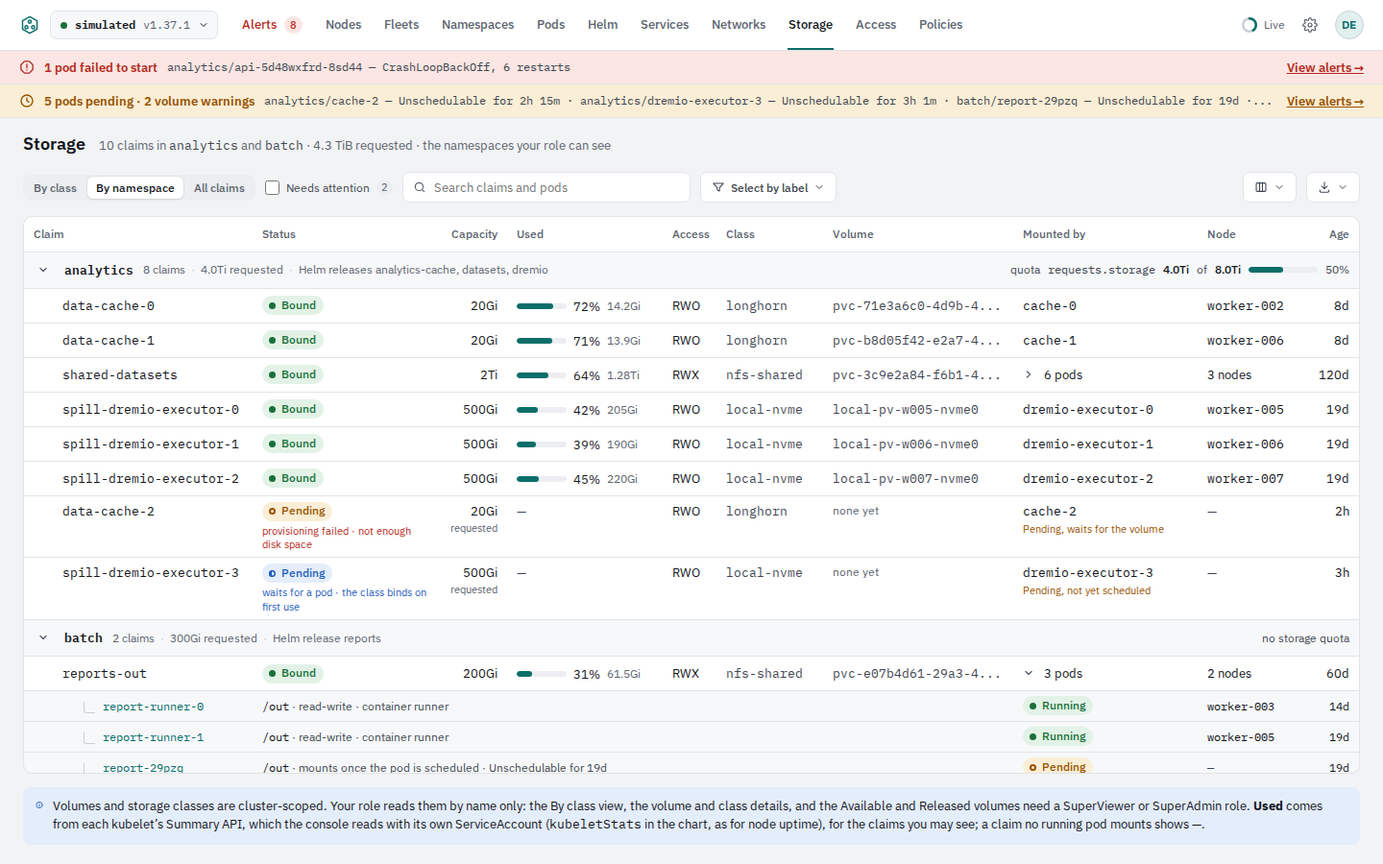
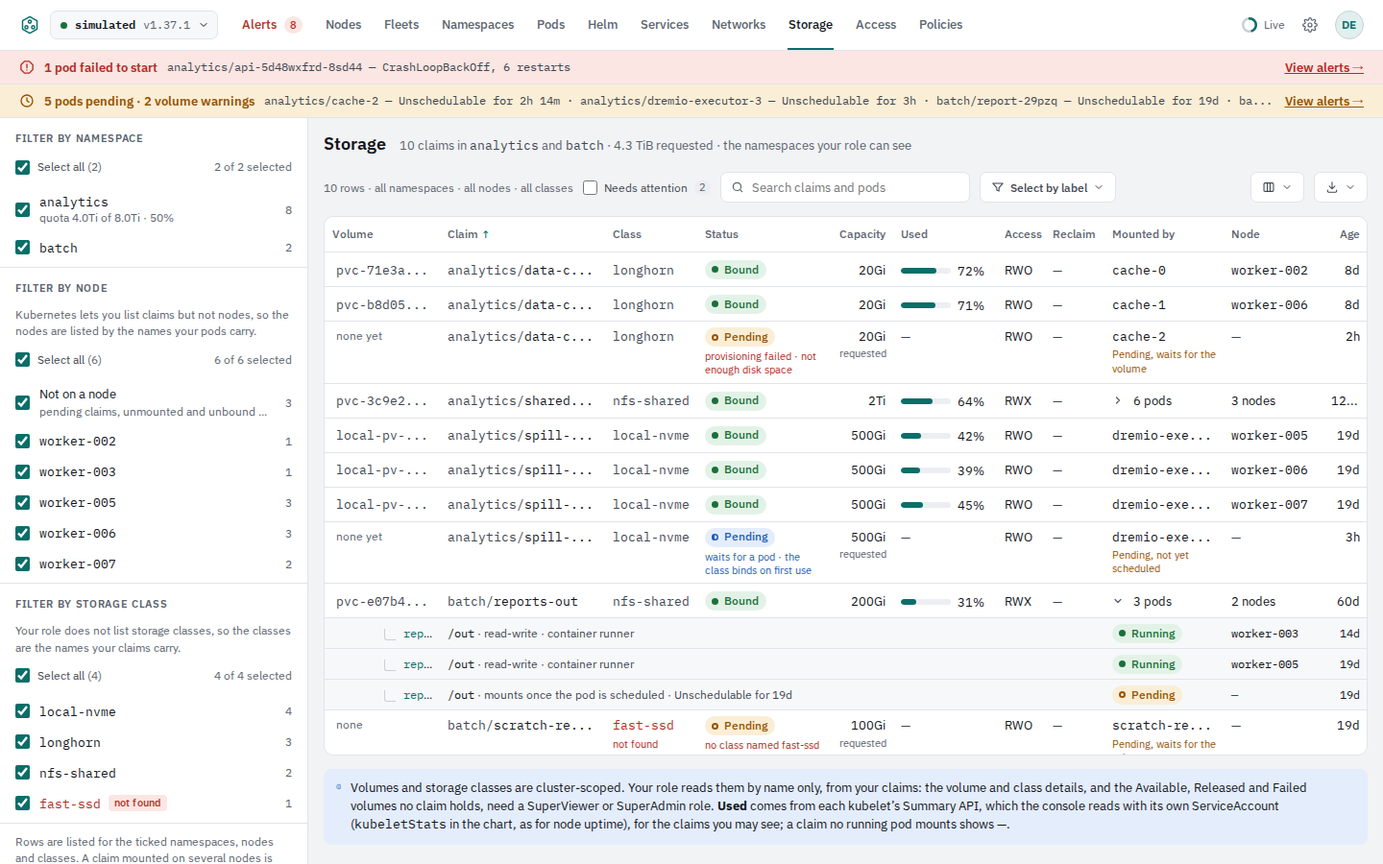
Storage: requirements and screenshots for the filter sidebar
ST-02 rewritten for one flat table beside a filter sidebar by namespace,
node and storage class; ST-03, ST-11 and ST-12 replaced by it at the
October 25, 2026 review, as P3-03 was; ST-04 is the sort by claim, ST-10
leaves namespace, node and class to the sidebar, ST-20 says what the
sidebar names; ST-24 and ST-25 test filtering, not grouping. storage.md
the same, with a row in Your review, its Design section showing the
simulator's pages and keeping docs/design/storage/ as the record of the
first design. The Storage line in CHANGELOG.md and the README caption
follow; the five screenshots are retaken from the simulator at 1440 px
with the dock closed.

diff --git a/docs/requirements.md b/docs/requirements.md
@@ -381,17 +381,17 @@ Phase 8 adds a **Storage** tab: storage classes, persistent volumes, persistent 
 | ID | Requirement | Done when |
 | --- | --- | --- |
 | ST-01 | A **Storage** tab in the bar after Networks, with the route `storage`, rolled into the More menu like any other tab when the window narrows (P2-01). The tab has no count; the heading line reads `N volumes · X provisioned · N classes, default <name> · N claims in N namespaces` for cluster-wide roles and `N claims in <namespaces> · X requested · the namespaces your role can see` for namespace-bound roles. | The tab opens at 1440 px and 390 px wide; the heading matches `kubectl get pv,pvc,sc -A` on the test cluster. |
-| ST-02 | Three views in a segmented control: **By class** (groups: one per class, then volumes with no class, then one per class name that claims use but which does not exist), **By namespace** (groups: one per namespace the person may read), **All volumes** (flat, sortable; **All claims** for namespace-bound roles). By class is disabled, with a tooltip naming the roles that can use it, when the person cannot list storage classes. The chosen view, group collapse state and column choices are kept per cluster in the browser, as the other tabs keep theirs. | Each view shows the same rows; switching keeps the search and the Needs attention filter. |
-| ST-03 | A class group header shows: the class name (a link to its drawer), a `default` tag when the class carries `storageclass.kubernetes.io/is-default-class: "true"` (or the beta annotation), then provisioner, reclaim policy ("Delete on release", "Retain on release"), binding mode ("binds immediately", "binds when a pod is scheduled"), expansion ("expansion allowed", "no expansion"); on the right, volumes, provisioned and used totals with a meter, and counts of claims pending, volumes Available and Released. The "No storage class" group says `volumes made by hand · nothing provisions or deletes these · a claim binds to one by name or by size`. A "class not found" group is named after the missing class with a red `class not found` tag and says `no StorageClass with this name exists · the claim stays Pending; its only sign is a ProvisioningFailed event`. | Every header fact matches `kubectl get sc <name> -o yaml`. |
-| ST-04 | Group order: the default class first, the other classes by name, then No storage class, then the class-not-found groups. Within a group: bound pairs by namespace and claim name, then Pending claims, then volumes with no claim (Released, then Available); a Lost claim or a Failed volume first in its group. | A test over a seeded set of rows yields that order. |
+| ST-02 | One flat table for every role, beside a filter sidebar like the Pods tab's (P2-03), in three sections. **Filter by namespace**: each namespace with a claim the person may see, with its claim count and, when a ResourceQuota sets `requests.storage`, a sub-line `quota 4.0Ti of 8.0Ti · 50%`; first, for cluster-wide roles, **No claim**: the Available, Released and Failed volumes. **Filter by node**: each node a row's pods run on or its volume is attached to, so an RWX claim mounted on several nodes is under each, with the role tag and cordoned flag when the person may list nodes and names only otherwise; first **Not on a node**: pending claims, unmounted and unbound volumes. **Filter by storage class**: each StorageClass with a `default` tag and its provisioner as the sub-line, for roles that may list classes, the names the claims carry otherwise; then **No class** (hand-made volumes, claims with `storageClassName: ""`) and, in red and tagged `not found`, each class name claims use that does not exist. Each section has Select all, an only button and counts that follow the other two sections, the search and Needs attention; the selection is in the URL (`ns`, `node`, `class`; `-` for none; `(no-claim)`, `(no-node)`, `(no-class)` for the special entries), and a scope line in the toolbar says it (`22 rows · all namespaces · all nodes · all classes`). Columns: Volume, Claim, Class, Status, Capacity, Used, Access, Reclaim, Mounted by, Node, Age, the others hidden by default (ST-06); column choices are kept per cluster in the browser. What the former group headers carried lives on: a class's facts in its sidebar entry and its drawer (ST-17), a namespace's quota in its sidebar entry. At 390 px the sidebar stacks above the table. | Filtering by one namespace, one node or one class, and by each of No claim, Not on a node and No class, shows only their rows; opening `#/storage?ns=analytics&node=(no-node)` restores that selection; a Viewer bound to one namespace sees only that namespace, its pods' nodes and its claims' class names in the sidebar. |
+| ST-03 | Replaced by ST-02 at the October 25, 2026 review: the class group header gave way to the sidebar's class entry (name, `default` tag, provisioner) and the class drawer (ST-17), which has the reclaim policy, binding mode, expansion and totals. | See ST-02. |
+| ST-04 | Default sort: Claim ascending, by namespace and then name, so a namespace's claims sit together; rows with no claim (Released, Available and Failed volumes) after them. Every column sorts, with the Status sort putting rows that need attention first. | A test over a seeded set of rows yields that order. |
 | ST-05 | A row is a volume ⇄ claim pair. Kinds of row: **bound** (volume and claim), **pending claim** (claim, `none yet` in the Volume column), **released volume** (volume, `was <namespace>/<claim>` in the Claim column, from `spec.claimRef`), **available volume** (volume, `—`), **lost claim** (claim whose volume is gone). The Status cell shows the phase as a pill and, when the row is not healthy, one short reason line under it (ST-14). | Each kind renders from the seeded rows as in the mockup. |
 | ST-06 | Columns, in order: Volume (the PV name, ellipsized, full name on hover; a hand-made volume also shows its source, such as `nfs 10.0.3.5:/hdfs`), Claim (`namespace/` dimmed, then the name), Status, Capacity (the volume's `spec.capacity.storage`, or the claim's request with a `requested` note while unbound), Used (ST-08), Access (`RWO`, `ROX`, `RWX`, `RWOP`, full mode on hover), Reclaim, Mounted by, Node, Age. Hidden by default: Mode (Filesystem or Block), Source (CSI driver and handle, NFS server and path, local path), Labels, Release (the Helm release of the claim), Binding mode. Column picker and Export (Excel, JSON) as on the other tabs. | The export has the same rows, columns and order as the screen. |
 | ST-07 | **Mounted by** shows the pod's name when one pod mounts the claim and `N pods` with a chevron otherwise; the chevron expands pod sub-rows: pod name, mount path, `read-write` or `read-only`, `subPath` when set, the container, the pod's status pill and node. A pod that is not Running shows its state and age under its name (`Pending, waits for the volume`; `Unschedulable for 19d`). Pod sub-rows are collapsed by default and expanded when any of the pods is not Running. | Clicking the pod name opens the pod drawer (P2-04). |
 | ST-08 | **Used** is `usedBytes` of `capacityBytes` from the kubelet Summary API (`/api/v1/nodes/<node>/proxy/stats/summary`, `pods[].volume[]` matched by `pvcRef`), read by the server with its own ServiceAccount under `kubeletStats`, cached per node and refreshed with the node metrics. Shown as a bar, a percentage and the amount; `—` for a claim no running pod mounts, for Block-mode volumes and when `kubeletStats` is off. 85% and over is amber and counts as Needs attention; 95% and over is red. A person sees usage for every claim they may read; a namespace-bound role sees no more than that. | Usage within 2% of `df` inside the pod; `--set kubeletStats=false` shows `—` everywhere and the heading says why. |
 | ST-09 | A **Needs attention** checkbox with a count filters to rows that are: a claim Pending with a Warning event, a claim naming a class that does not exist, a claim Lost, a volume Released or Failed, or usage at 85% or more. The first three are what the Alerts tab shows as volume alerts today; Released and usage are 221B checks, shown here and not on the Alerts tab. | The count equals the number of rows the filter leaves. |
-| ST-10 | Search matches volume name, claim name, namespace, pod name, class and node. **Select by label** filters by volume or claim labels, as the Nodes tab does for nodes (P2-09). | Searching `kafka` leaves the three Kafka rows. |
-| ST-11 | **By namespace** group header: namespace (a link), claims, requested total, the Helm releases that own claims there; on the right, the namespace's ResourceQuota for `requests.storage` as `used of hard` with a meter and percentage (and, when a quota sets `<class>.storageclass.storage.k8s.io/requests.storage`, that limit on the matching rows' class), or `no storage quota`. Columns in this view: Claim, Status, Capacity, Used, Access, Class, Volume, Mounted by, Node, Age; for a namespace-bound role, Class and Volume are plain names from the claim (`spec.storageClassName`, `spec.volumeName`) and open nothing; a class name that no class matches is red with `not found` under it. | A Viewer bound to `analytics` and `batch` sees exactly their claims, as in the mockup; a namespace with a quota shows the same numbers as `kubectl describe quota`. |
-| ST-12 | **All volumes** is the flat table with a Class column, sortable by any column, for large clusters; it keeps the search and filter. | 2,000 claims sort within 200 ms. |
+| ST-10 | The sidebar does the filtering by namespace, node and class (ST-02). Search matches volume name, claim name, namespace, pod name, class and node; **Select by label** filters by volume or claim labels, as the Nodes tab does for nodes (P2-09). | Searching `kafka` leaves the three Kafka rows. |
+| ST-11 | Replaced by ST-02 at the October 25, 2026 review: there is no By namespace view; a namespace's storage quota is its sidebar entry's sub-line, and for a namespace-bound role Class and Volume stay plain names from the claim (`spec.storageClassName`, `spec.volumeName`) that open nothing, a class name no class matches red with `not found`. | See ST-02. |
+| ST-12 | Replaced by ST-02 at the October 25, 2026 review: the flat, sortable table of All volumes is now the table for every role, with the Class column after Claim; 2,000 claims still filter and sort within 200 ms (ST-25). | See ST-02. |
 | ST-13 | Clicking a volume or claim name opens one drawer for the pair (1000 px wide like the pod drawer): kicker `Volume claim in <namespace> · bound to <volume>` (or `· no volume yet`, or `Volume <name> · released from <namespace>/<claim>`), the claim name with Copy, facts (phase pill with the time in that phase when not Bound, capacity or request, access mode, volume mode and filesystem, class, the StatefulSet or other owner, the Helm release, age), and tabs Overview, Pods, Events, Claim YAML, Volume YAML (the last only when a volume exists; Volume YAML only for roles that may read volumes). | Opens with Enter, closes with Escape, returns focus to the row (P1-17). |
 | ST-14 | Overview shows **the chain**, one hop per row: 1 Storage class, 2 Volume, 3 Claim, 4 Mounted by, 5 Attached to (the node, from the VolumeAttachment for CSI volumes, from `nodeAffinity` for local volumes, `N nodes` for RWX), 6 Usage. Each hop has a value, a one-line description and a state (`in place`, `Bound`, `Running`, `attached`, `room to grow`, `Pending`, `failed`, `—`). The first hop that does not hold is red with the cause in bold; the hops that wait on it are amber; hops that cannot be reached yet are grey. The intro line above the chain names the broken hop in one sentence (`The chain breaks at the volume: longhorn has tried 14 times to create one and keeps retrying.`). The diagnosis rules, also used for the Status reason line in the table: a class the claim names does not exist → `no class named <x> · nothing will provision it` (red); a `ProvisioningFailed` Warning event → `provisioning failed · <short message>` (red); the class binds on first use and no pod is scheduled → `waits for a pod · the class binds on first use` (blue, not Needs attention); the claim has no class (`""`) and no volume matches → `no volume matches (size, access mode or selector)` (amber); otherwise Pending → `waiting for the provisioner` (amber); Lost → red; volume Released → `claim deleted <age> ago · data kept (Retain)` or `· being deleted` (amber); volume Failed → red with the message; Resizing → amber. | Each rule has a unit test with a seeded claim; breaking each hop on the test cluster turns that hop red and names the cause (as P4-02 does for Networks). |
 | ST-15 | Events: the claim's own events, the attach and mount events of the pods that use it (`attachMount` in alerts.go, matched by volume or claim name), and the `FailedScheduling` events of pods waiting on the claim, in one table (Reason, Message, Count, First seen, Last seen, Reported by), Warnings first; the Overview shows the last two as a short list with a `No warnings in the last N days` line. | The table matches `kubectl get events --field-selector involvedObject.name=<claim>` plus the pods' events. |
@@ -399,25 +399,26 @@ Phase 8 adds a **Storage** tab: storage classes, persistent volumes, persistent 
 | ST-17 | Clicking a class name opens the **class drawer** (640 px): kicker `StorageClass · cluster-scoped · provisioner <name>`, name with the `default` tag and Copy, facts (volumes, provisioned, used, claims and how many pending, age), tabs Overview, Volumes, Parameters, YAML. Overview: **How it provisions** (provisioner with a plain-language note for known ones, reclaim policy, binding mode, expansion, mount options, allowed topologies, whether default and what that means), **Parameters** (as given), **Capacity** (used of provisioned with a meter; for a replicated provisioner the on-disk multiple when the parameters say it; claims by namespace), and a warning callout when any claim in the class is failing to provision. | Every fact matches the class YAML; the Volumes tab lists the same rows as the class's group on the tab. |
 | ST-18 | Actions, in the drawer footer, each a Watson change with a server dry run and approval, the production rule included: **Expand** a claim to a larger size (patch `spec.resources.requests.storage`; offered only when the class allows expansion; the dry run and a note say whether the filesystem grows online or needs a pod restart); **Delete claim** (the confirmation names the reclaim policy and its consequence; for a claim from a StatefulSet volumeClaimTemplate it says the set recreates the claim); **Remove default** / **Set as default** on a class (patch the annotation; the footer says the default is changed in two steps and that bound claims keep their class). **Snapshot** is shown disabled with `No VolumeSnapshotClass on this cluster` until snapshots are in scope. No action deletes a volume or a class, and nothing is offered to a read-only role or a read-only deployment (RB-03, RB-32). | Each action produces one audit record; on a production cluster it waits for a second admin (P6-07). |
 | ST-19 | Reads: `volumeattachments` (storage.k8s.io, cluster-scoped) joins `Watched` and the chart's ClusterRole and the Super role templates; `persistentvolumes` and `storageclasses` are already there (RB-11). Namespace-bound roles need nothing new: claims, quotas, events and pods in their namespaces. `nodes/proxy` stays out of every role template (roles.go, `superGetCore`); usage comes only from the server's own read under `kubeletStats` (ST-08). Writes for ST-18 are already in the Admin templates (`patch` and `delete` on `persistentvolumeclaims`); `patch` on `storageclasses` is added to the Super Admin full template. | `hack/check-rbac.sh` passes with the new rules; a Viewer's `kubectl auth can-i --list` shows no volume, class or attachment reads. |
-| ST-20 | Everything a namespace-bound person sees comes through impersonation (P3-02): no claim of another namespace in any view, search, export, drawer, Sherlock answer or usage figure; volumes without a claim, the class drawer and the By class view are not offered to them. | An e2e test as a Viewer bound to one namespace finds no name from another namespace in any response. |
+| ST-20 | Everything a namespace-bound person sees comes through impersonation (P3-02): no claim of another namespace in any view, search, export, drawer, Sherlock answer or usage figure; volumes without a claim and the volume and class drawers are not offered to them, and the sidebar names only their namespaces, their pods' nodes and their claims' classes. | An e2e test as a Viewer bound to one namespace finds no name from another namespace in any response. |
 | ST-21 | The Alerts tab keeps its event-driven volume alerts; its volume cards gain an **Open volume** action that opens the Storage drawer. The pod drawer's Volumes tab links a claim's pill to the Storage drawer. The Namespaces list footer names the Storage tab. The alert banner's volume items open the Storage drawer. | Each link opens the right drawer with the right row selected. |
 | ST-22 | Sherlock answers storage questions through two new read tools (list classes with totals; list volumes and claims with status, usage, pods and the diagnosis of ST-14), under the same impersonation and the same limits as the other tools; `get_object` already handles a claim. Watson's three storage actions run through the existing approval flow, nothing more than the chart allows (RB-03, RB-32). | `Which claims are pending and why?` answers with the ST-14 reasons; a Watson expand on a read-only deployment is refused before the dry run. |
 | ST-23 | The simulated cluster (`server/internal/sim`) gains classes, volumes, claims, attachments and usage that reproduce the mockup scenario: a default replicated class, a local class that binds on first use, an NFS class, hand-made volumes, a claim failing to provision, a claim naming a missing class, a Released volume, an Available volume, a claim waiting for a pod, and one volume at 86%. | The simulated Storage tab matches the mockups row for row. |
-| ST-24 | Unit tests for grouping, ordering and every ST-14 rule; an e2e test on the kind cluster with its local-path provisioner covering a bound claim, a claim naming a missing class and a Released volume; the role tests of RB-56 extended with the new kinds. | CI passes; the Storage screenshots are added to `docs/screenshots/`. |
-| ST-25 | 2,000 claims and 50 classes: first screen within 2 seconds, grouping and sorting within 200 ms, usage refresh adds no request per claim (one Summary read per node per refresh). | Measured with kwok as for P1-18. |
+| ST-24 | Unit tests for the sidebar's filtering, ordering and every ST-14 rule; an e2e test on the kind cluster with its local-path provisioner covering a bound claim, a claim naming a missing class and a Released volume; the role tests of RB-56 extended with the new kinds. | CI passes; the Storage screenshots are added to `docs/screenshots/`. |
+| ST-25 | 2,000 claims and 50 classes: first screen within 2 seconds, filtering and sorting within 200 ms, usage refresh adds no request per claim (one Summary read per node per refresh). | Measured with kwok as for P1-18. |
 
 **Built in Phase 8:**
 
-- **ST-01 to ST-12:** the tab after Networks, with By class, By namespace and All volumes, the Needs attention filter, search and Select by label, Columns and Export (Excel, CSV, JSON). The server builds the rows from its caches (`server/internal/views/storage.go`) and filters them per person like every other view; the browser groups and sorts them (`web/src/lib/volumes.ts`).
+- **ST-01 to ST-12:** the tab after Networks: one table, sorted by claim, beside a filter sidebar by namespace, node and storage class as on the Pods tab (revised at the October 25, 2026 review, which replaced the views by class and by namespace), the Needs attention filter, search and Select by label, Columns and Export (Excel, CSV, JSON). The server builds the rows from its caches (`server/internal/views/storage.go`) and filters them per person like every other view; the browser groups and sorts them (`web/src/lib/volumes.ts`).
 - **ST-08:** used bytes come from each kubelet's Summary API, read by the console's ServiceAccount at most every 30 seconds, one request per node that runs a pod with a claim (ADR-63).
 - **ST-13 to ST-18:** the claim drawer with the chain and its diagnosis, the class drawer, and Expand, Delete claim and Set or Remove default as Watson changes, each waiting on an approval card.
 - **ST-19, ST-20:** VolumeAttachments are watched and read by the chart's ClusterRole and the Super roles; full Admin gains `delete` on claims. A person bound to namespaces gets claims only, through the same access reviews and impersonation as the other tabs.
 - **ST-21, ST-22:** Open volume on the Alerts tab's volume cards, the claim pill on the pod drawer, the Namespaces footer and the banner's volume items open the drawer; Sherlock has `list_storage_classes` and `list_volumes`. The Needs attention filter is a superset of the Alerts tab's volume alerts (ADR-64).
-- **ST-23 to ST-25:** the simulator serves the mockups' scenario; unit tests cover grouping, ordering and every diagnosis rule; browser tests cover the views, the drawers and the filter against the simulator, and a bound claim, a claim naming a missing class, a Released volume and a namespace-bound person on kind; 2,000 claims in 50 classes build in milliseconds and sort within 200 ms.
+- **ST-23 to ST-25:** the simulator serves the mockups' scenario; unit tests cover the sidebar's entries and filtering, ordering and every diagnosis rule; browser tests cover the table, the sidebar, the drawers and Needs attention against the simulator, and a bound claim, a claim naming a missing class, a Released volume and a namespace-bound person on kind; 2,000 claims in 50 classes build in milliseconds and sort within 200 ms.
 
 ### Your review
 
-- [ ] The tab checked against the mockups and `kubectl get pv,pvc,sc -A` on the test cluster, at 1440 px and 390 px, in both themes (ST-01 to ST-12)
+- [ ] The tab checked against `kubectl get pv,pvc,sc -A` on the test cluster, at 1440 px and 390 px, in both themes (ST-01 to ST-12)
+- [ ] The filter sidebar: one namespace, one node, one class, No claim, Not on a node and No class each show only their rows, and a link with `ns`, `node` or `class` opens the same selection (ST-02)
 - [ ] A claim's drawer checked for a bound claim, a claim failing to provision, a claim naming a missing class and a Released volume (ST-13 to ST-16)
 - [ ] The class drawer and the three Watson changes approved and run on the test cluster, each with its audit record (ST-17, ST-18)
 - [ ] A Viewer bound to one namespace sees nothing of another, and no volume, class or attachment (ST-19, ST-20)

diff --git a/docs/storage.md b/docs/storage.md
@@ -8,7 +8,7 @@ In:
 
 - A top-level **Storage** tab, after Networks.
 - StorageClasses, PersistentVolumes, PersistentVolumeClaims, VolumeAttachments, the pods that mount each claim, ResourceQuota storage limits, and used bytes from each kubelet's Summary API.
-- Three views of the same data (by class, by namespace, flat), a details drawer for a claim or volume, a details drawer for a class, and three changes through Watson: expand a claim, delete a claim, change the default class.
+- One table of the same rows for every role, filtered by namespace, node and storage class in a sidebar as on the Pods tab (three grouped views until the October 25, 2026 review), a details drawer for a claim or volume, a details drawer for a class, and three changes through Watson: expand a claim, delete a claim, change the default class.
 
 Out, for now:
 
@@ -17,6 +17,8 @@ Out, for now:
 - Creating classes or volumes, and deleting volumes or classes from the console.
 
 ## Approach
+
+Revised at the October 25, 2026 review: grouping by class and by namespace gave way to one flat table beside a filter sidebar by namespace, node and storage class, as on the Pods tab (ST-02). The paragraphs below are the first design's reasoning; what they say of the class and the hand-made and missing classes now lives in the sidebar's class section and the class drawer.
 
 **One tree.** A volume and its claim are a pair, so they share one row; rows are grouped under their storage class; a row expands to the pods that mount it. The group header carries what an operator reads off a class before anything else: provisioner, reclaim policy, binding mode, expansion, whether it is the default, and totals (volumes, provisioned, used, claims in trouble).
 
@@ -44,17 +46,17 @@ Out, for now:
 | ID | Requirement | Acceptance |
 |---|---|---|
 | ST-01 | A **Storage** tab in the bar after Networks, with the route `storage`, rolled into the More menu like any other tab when the window narrows (P2-01). The tab has no count; the heading line reads `N volumes · X provisioned · N classes, default <name> · N claims in N namespaces` for cluster-wide roles and `N claims in <namespaces> · X requested · the namespaces your role can see` for namespace-bound roles. | The tab opens at 1440 px and 390 px wide; the heading matches `kubectl get pv,pvc,sc -A` on the test cluster. |
-| ST-02 | Three views in a segmented control: **By class** (groups: one per class, then volumes with no class, then one per class name that claims use but which does not exist), **By namespace** (groups: one per namespace the person may read), **All volumes** (flat, sortable; **All claims** for namespace-bound roles). By class is disabled, with a tooltip naming the roles that can use it, when the person cannot list storage classes. The chosen view, group collapse state and column choices are kept per cluster in the browser, as the other tabs keep theirs. | Each view shows the same rows; switching keeps the search and the Needs attention filter. |
-| ST-03 | A class group header shows: the class name (a link to its drawer), a `default` tag when the class carries `storageclass.kubernetes.io/is-default-class: "true"` (or the beta annotation), then provisioner, reclaim policy ("Delete on release", "Retain on release"), binding mode ("binds immediately", "binds when a pod is scheduled"), expansion ("expansion allowed", "no expansion"); on the right, volumes, provisioned and used totals with a meter, and counts of claims pending, volumes Available and Released. The "No storage class" group says `volumes made by hand · nothing provisions or deletes these · a claim binds to one by name or by size`. A "class not found" group is named after the missing class with a red `class not found` tag and says `no StorageClass with this name exists · the claim stays Pending; its only sign is a ProvisioningFailed event`. | Every header fact matches `kubectl get sc <name> -o yaml`. |
-| ST-04 | Group order: the default class first, the other classes by name, then No storage class, then the class-not-found groups. Within a group: bound pairs by namespace and claim name, then Pending claims, then volumes with no claim (Released, then Available); a Lost claim or a Failed volume first in its group. | A test over a seeded set of rows yields that order. |
+| ST-02 | One flat table for every role, beside a filter sidebar like the Pods tab's (P2-03), in three sections. **Filter by namespace**: each namespace with a claim the person may see, with its claim count and, when a ResourceQuota sets `requests.storage`, a sub-line `quota 4.0Ti of 8.0Ti · 50%`; first, for cluster-wide roles, **No claim**: the Available, Released and Failed volumes. **Filter by node**: each node a row's pods run on or its volume is attached to, so an RWX claim mounted on several nodes is under each, with the role tag and cordoned flag when the person may list nodes and names only otherwise; first **Not on a node**: pending claims, unmounted and unbound volumes. **Filter by storage class**: each StorageClass with a `default` tag and its provisioner as the sub-line, for roles that may list classes, the names the claims carry otherwise; then **No class** (hand-made volumes, claims with `storageClassName: ""`) and, in red and tagged `not found`, each class name claims use that does not exist. Each section has Select all, an only button and counts that follow the other two sections, the search and Needs attention; the selection is in the URL (`ns`, `node`, `class`; `-` for none; `(no-claim)`, `(no-node)`, `(no-class)` for the special entries), and a scope line in the toolbar says it (`22 rows · all namespaces · all nodes · all classes`). Columns: Volume, Claim, Class, Status, Capacity, Used, Access, Reclaim, Mounted by, Node, Age, the others hidden by default (ST-06); column choices are kept per cluster in the browser. What the former group headers carried lives on: a class's facts in its sidebar entry and its drawer (ST-17), a namespace's quota in its sidebar entry. At 390 px the sidebar stacks above the table. | Filtering by one namespace, one node or one class, and by each of No claim, Not on a node and No class, shows only their rows; opening `#/storage?ns=analytics&node=(no-node)` restores that selection; a Viewer bound to one namespace sees only that namespace, its pods' nodes and its claims' class names in the sidebar. |
+| ST-03 | Replaced by ST-02 at the October 25, 2026 review: the class group header gave way to the sidebar's class entry (name, `default` tag, provisioner) and the class drawer (ST-17), which has the reclaim policy, binding mode, expansion and totals. | See ST-02. |
+| ST-04 | Default sort: Claim ascending, by namespace and then name, so a namespace's claims sit together; rows with no claim (Released, Available and Failed volumes) after them. Every column sorts, with the Status sort putting rows that need attention first. | A test over a seeded set of rows yields that order. |
 | ST-05 | A row is a volume ⇄ claim pair. Kinds of row: **bound** (volume and claim), **pending claim** (claim, `none yet` in the Volume column), **released volume** (volume, `was <namespace>/<claim>` in the Claim column, from `spec.claimRef`), **available volume** (volume, `—`), **lost claim** (claim whose volume is gone). The Status cell shows the phase as a pill and, when the row is not healthy, one short reason line under it (ST-14). | Each kind renders from the seeded rows as in the mockup. |
 | ST-06 | Columns, in order: Volume (the PV name, ellipsized, full name on hover; a hand-made volume also shows its source, such as `nfs 10.0.3.5:/hdfs`), Claim (`namespace/` dimmed, then the name), Status, Capacity (the volume's `spec.capacity.storage`, or the claim's request with a `requested` note while unbound), Used (ST-08), Access (`RWO`, `ROX`, `RWX`, `RWOP`, full mode on hover), Reclaim, Mounted by, Node, Age. Hidden by default: Mode (Filesystem or Block), Source (CSI driver and handle, NFS server and path, local path), Labels, Release (the Helm release of the claim), Binding mode. Column picker and Export (Excel, JSON) as on the other tabs. | The export has the same rows, columns and order as the screen. |
 | ST-07 | **Mounted by** shows the pod's name when one pod mounts the claim and `N pods` with a chevron otherwise; the chevron expands pod sub-rows: pod name, mount path, `read-write` or `read-only`, `subPath` when set, the container, the pod's status pill and node. A pod that is not Running shows its state and age under its name (`Pending, waits for the volume`; `Unschedulable for 19d`). Pod sub-rows are collapsed by default and expanded when any of the pods is not Running. | Clicking the pod name opens the pod drawer (P2-04). |
 | ST-08 | **Used** is `usedBytes` of `capacityBytes` from the kubelet Summary API (`/api/v1/nodes/<node>/proxy/stats/summary`, `pods[].volume[]` matched by `pvcRef`), read by the server with its own ServiceAccount under `kubeletStats`, cached per node and refreshed with the node metrics. Shown as a bar, a percentage and the amount; `—` for a claim no running pod mounts, for Block-mode volumes and when `kubeletStats` is off. 85% and over is amber and counts as Needs attention; 95% and over is red. A person sees usage for every claim they may read; a namespace-bound role sees no more than that. | Usage within 2% of `df` inside the pod; `--set kubeletStats=false` shows `—` everywhere and the heading says why. |
 | ST-09 | A **Needs attention** checkbox with a count filters to rows that are: a claim Pending with a Warning event, a claim naming a class that does not exist, a claim Lost, a volume Released or Failed, or usage at 85% or more. The first three are what the Alerts tab shows as volume alerts today; Released and usage are 221B checks, shown here and not on the Alerts tab. | The count equals the number of rows the filter leaves. |
-| ST-10 | Search matches volume name, claim name, namespace, pod name, class and node. **Select by label** filters by volume or claim labels, as the Nodes tab does for nodes (P2-09). | Searching `kafka` leaves the three Kafka rows. |
-| ST-11 | **By namespace** group header: namespace (a link), claims, requested total, the Helm releases that own claims there; on the right, the namespace's ResourceQuota for `requests.storage` as `used of hard` with a meter and percentage (and, when a quota sets `<class>.storageclass.storage.k8s.io/requests.storage`, that limit on the matching rows' class), or `no storage quota`. Columns in this view: Claim, Status, Capacity, Used, Access, Class, Volume, Mounted by, Node, Age; for a namespace-bound role, Class and Volume are plain names from the claim (`spec.storageClassName`, `spec.volumeName`) and open nothing; a class name that no class matches is red with `not found` under it. | A Viewer bound to `analytics` and `batch` sees exactly their claims, as in the mockup; a namespace with a quota shows the same numbers as `kubectl describe quota`. |
-| ST-12 | **All volumes** is the flat table with a Class column, sortable by any column, for large clusters; it keeps the search and filter. | 2,000 claims sort within 200 ms. |
+| ST-10 | The sidebar does the filtering by namespace, node and class (ST-02). Search matches volume name, claim name, namespace, pod name, class and node; **Select by label** filters by volume or claim labels, as the Nodes tab does for nodes (P2-09). | Searching `kafka` leaves the three Kafka rows. |
+| ST-11 | Replaced by ST-02 at the October 25, 2026 review: there is no By namespace view; a namespace's storage quota is its sidebar entry's sub-line, and for a namespace-bound role Class and Volume stay plain names from the claim (`spec.storageClassName`, `spec.volumeName`) that open nothing, a class name no class matches red with `not found`. | See ST-02. |
+| ST-12 | Replaced by ST-02 at the October 25, 2026 review: the flat, sortable table of All volumes is now the table for every role, with the Class column after Claim; 2,000 claims still filter and sort within 200 ms (ST-25). | See ST-02. |
 
 ### The details drawers
 
@@ -72,7 +74,7 @@ Out, for now:
 | ID | Requirement | Acceptance |
 |---|---|---|
 | ST-19 | Reads: `volumeattachments` (storage.k8s.io, cluster-scoped) joins `Watched` and the chart's ClusterRole and the Super role templates; `persistentvolumes` and `storageclasses` are already there (RB-11). Namespace-bound roles need nothing new: claims, quotas, events and pods in their namespaces. `nodes/proxy` stays out of every role template (roles.go, `superGetCore`); usage comes only from the server's own read under `kubeletStats` (ST-08). Writes for ST-18 are already in the Admin templates (`patch` and `delete` on `persistentvolumeclaims`); `patch` on `storageclasses` is added to the Super Admin full template. | `hack/check-rbac.sh` passes with the new rules; a Viewer's `kubectl auth can-i --list` shows no volume, class or attachment reads. |
-| ST-20 | Everything a namespace-bound person sees comes through impersonation (P3-02): no claim of another namespace in any view, search, export, drawer, Sherlock answer or usage figure; volumes without a claim, the class drawer and the By class view are not offered to them. | An e2e test as a Viewer bound to one namespace finds no name from another namespace in any response. |
+| ST-20 | Everything a namespace-bound person sees comes through impersonation (P3-02): no claim of another namespace in any view, search, export, drawer, Sherlock answer or usage figure; volumes without a claim and the volume and class drawers are not offered to them, and the sidebar names only their namespaces, their pods' nodes and their claims' classes. | An e2e test as a Viewer bound to one namespace finds no name from another namespace in any response. |
 
 ### Alerts, links, Sherlock
 
@@ -86,8 +88,8 @@ Out, for now:
 | ID | Requirement | Acceptance |
 |---|---|---|
 | ST-23 | The simulated cluster (`server/internal/sim`) gains classes, volumes, claims, attachments and usage that reproduce the mockup scenario: a default replicated class, a local class that binds on first use, an NFS class, hand-made volumes, a claim failing to provision, a claim naming a missing class, a Released volume, an Available volume, a claim waiting for a pod, and one volume at 86%. | The simulated Storage tab matches the mockups row for row. |
-| ST-24 | Unit tests for grouping, ordering and every ST-14 rule; an e2e test on the kind cluster with its local-path provisioner covering a bound claim, a claim naming a missing class and a Released volume; the role tests of RB-56 extended with the new kinds. | CI passes; the Storage screenshots are added to `docs/screenshots/`. |
-| ST-25 | 2,000 claims and 50 classes: first screen within 2 seconds, grouping and sorting within 200 ms, usage refresh adds no request per claim (one Summary read per node per refresh). | Measured with kwok as for P1-18. |
+| ST-24 | Unit tests for the sidebar's filtering, ordering and every ST-14 rule; an e2e test on the kind cluster with its local-path provisioner covering a bound claim, a claim naming a missing class and a Released volume; the role tests of RB-56 extended with the new kinds. | CI passes; the Storage screenshots are added to `docs/screenshots/`. |
+| ST-25 | 2,000 claims and 50 classes: first screen within 2 seconds, filtering and sorting within 200 ms, usage refresh adds no request per claim (one Summary read per node per refresh). | Measured with kwok as for P1-18. |
 
 ## Where the work lands
 
@@ -107,24 +109,25 @@ Out, for now:
 | Are the 85% and 95% thresholds chart values or constants? | Constants in the first version. | Open |
 | Should class-not-found, Released and nearly-full rows also appear on the Alerts tab? | No: the Alerts tab stays event-driven; the Storage tab's Needs attention is the superset. | Open |
 | Which tab does Storage displace into the More menu at narrow widths? | The bar order is Alerts, Nodes, Fleets, Namespaces, Pods, Helm, Services, Networks, Storage, Access, Policies; More takes from the right as before. | Open |
-| Expanded by default, or collapsed, for a cluster with 50 classes? | Expanded, up to 12 groups; collapsed beyond that, the groups with Needs attention rows open. | Open |
+| Expanded by default, or collapsed, for a cluster with 50 classes? | Expanded, up to 12 groups; collapsed beyond that, the groups with Needs attention rows open. | Moot since the October 25, 2026 review: there are no groups (ST-02). |
 | Does the pod drawer's Volumes tab stay as it is, or gain the chain? | It stays; its claim pill links to the Storage drawer. | Open |
 
 ## Design
 
-The pages at 1440 px in the light theme. The HTML of each page is in `docs/design/storage/` and opens in a browser as it is; `storage.css` is `web/src/styles/design.css` plus the mockup frame and the `st-*` classes of this page. The dark theme is `data-theme="dark"` on the root element.
+The pages at 1440 px in the light theme, from the simulator (`make screenshots`). The first design, with groups by class and by namespace, is kept as the record of what was reviewed: its HTML in `docs/design/storage/` and its renders in `docs/images/storage/`.
 
 | | |
 |---|---|
-| ![By class](images/storage/by-class-light-1440.png) | ![By namespace, as a Viewer](images/storage/by-namespace-viewer-light-1440.png) |
-| By class, as a SuperAdmin (ST-02 to ST-10): the longhorn group with a claim failing to provision, the nfs-shared group with pod sub-rows and a Released volume, hand-made volumes, and a claim naming a class that does not exist | By namespace, as a Viewer bound to analytics and batch (ST-11, ST-20): claims only, class and volume as names, a quota meter per namespace, By class disabled |
-| ![A bound claim](images/storage/claim-bound-light-1440.png) | ![A claim that cannot bind](images/storage/claim-pending-light-1440.png) |
+| ![The Storage tab](screenshots/storage.png) | ![As a Viewer bound to two namespaces](screenshots/storage-namespace.png) |
+| The table beside the filter sidebar, as a SuperAdmin (ST-02 to ST-10): every namespace with its quota, No claim, the nodes with Not on a node, every class with No class and the missing fast-ssd; the claim failing to provision, pod sub-rows and the claim naming a missing class | As a Viewer bound to analytics and batch (ST-02, ST-20): their claims only, their namespaces, their pods' nodes by name and their claims' classes in the sidebar, class and volume as names |
+| ![A bound claim](screenshots/storage-claim.png) | ![A claim that cannot bind](screenshots/storage-pending.png) |
 | The drawer for a bound claim (ST-13, ST-14, ST-16, ST-18): the six hops all green, Lifecycle and Recent events, Expand and Delete claim through Watson | The drawer for a claim the provisioner cannot satisfy: the volume hop red with the cause, the claim and pod hops waiting, the events, Sherlock's suggestions |
-| ![A storage class](images/storage/storage-class-light-1440.png) | |
-| The class drawer (ST-17, ST-18): how it provisions, parameters, capacity, the warning that provisioning is failing, Remove default through Watson | |
+| ![A storage class](screenshots/storage-class.png) | |
+| The class drawer (ST-17, ST-18): how it provisions, parameters, capacity, the warning that provisioning is failing, Remove default through Watson; its Volumes tab links to the table filtered to the class | |
 
 ## Your review
 
 | Date | Note |
 |---|---|
 | 2026-10-25 | Summary tiles removed from the top of every screen; the heading line stays. |
+| 2026-10-25 | Grouping by class and by namespace replaced by one flat table, sorted by claim, beside a filter sidebar like the Pods tab's: Filter by namespace (with No claim and each namespace's quota), Filter by node (with Not on a node) and Filter by storage class (with No class and the missing classes). ST-02 rewritten; ST-03, ST-11 and ST-12 replaced by it; ST-04 and ST-10 adjusted. The Namespaces tab, the node drawer and the class drawer link to the table filtered. |

diff --git a/README.md b/README.md
@@ -17,7 +17,7 @@ From the simulated cluster (`make screenshots`; the Screenshots workflow retakes
 | [![Alerts](docs/screenshots/alerts.png)](docs/screenshots/alerts.png)<br>**Alerts**: active, acknowledged, resolved | [![Fleets](docs/screenshots/fleets.png)](docs/screenshots/fleets.png)<br>**Fleets** by labels and taints | [![Networks](docs/screenshots/networks.png)](docs/screenshots/networks.png)<br>**Networks**: a route traced to the pod |
 | [![Access](docs/screenshots/access.png)](docs/screenshots/access.png)<br>**Access**: who can do what | [![Policies](docs/screenshots/policies.png)](docs/screenshots/policies.png)<br>**Policies** and drainability | [![Helm](docs/screenshots/helm.png)](docs/screenshots/helm.png)<br>**Helm** releases |
 | [![Sherlock](docs/screenshots/sherlock.png)](docs/screenshots/sherlock.png)<br>**Sherlock** answers from live state | [![Watson](docs/screenshots/watson-approval.png)](docs/screenshots/watson-approval.png)<br>**Watson**: a change waits on its approval card | [![Add a cluster](docs/screenshots/add-cluster.png)](docs/screenshots/add-cluster.png)<br>**Add a cluster**, with the RBAC it needs |
-| [![Roles](docs/screenshots/admin-roles.png)](docs/screenshots/admin-roles.png)<br>**Administration → Roles** | [![Settings](docs/screenshots/admin-settings.png)](docs/screenshots/admin-settings.png)<br>**Administration → Settings**: refresh, Sherlock, Watson | [![Storage](docs/screenshots/storage.png)](docs/screenshots/storage.png)<br>**Storage**: classes, volumes and claims as one tree |
+| [![Roles](docs/screenshots/admin-roles.png)](docs/screenshots/admin-roles.png)<br>**Administration → Roles** | [![Settings](docs/screenshots/admin-settings.png)](docs/screenshots/admin-settings.png)<br>**Administration → Settings**: refresh, Sherlock, Watson | [![Storage](docs/screenshots/storage.png)](docs/screenshots/storage.png)<br>**Storage**: volumes and claims by namespace, node and class |
 
 ## Overview
 

diff --git a/CHANGELOG.md b/CHANGELOG.md
@@ -6,7 +6,7 @@ What changed in each release of 221B, for people who use it and people who insta
 
 ### Added
 
-- **Storage tab.** Storage classes, persistent volumes and claims, and the pods that mount them, as one tree: by class, by namespace or all volumes, with how full each volume is (from the kubelets), a Needs attention filter, and a drawer that traces a claim from its class to its node and says where it breaks. A class has a drawer of its own. Expand a claim, delete a claim, and set or remove the default class through Watson, each after an approval. People bound to namespaces see their claims only. Alerts, the pod drawer and the banner link to it. Full Admin gains `delete` on claims, and the chart's ClusterRole reads VolumeAttachments.
+- **Storage tab.** Storage classes, persistent volumes and claims, and the pods that mount them, in one table beside a filter sidebar by namespace, node and storage class, as on the Pods tab, with how full each volume is (from the kubelets), a Needs attention filter, and a drawer that traces a claim from its class to its node and says where it breaks. A class has a drawer of its own. Expand a claim, delete a claim, and set or remove the default class through Watson, each after an approval. People bound to namespaces see their claims only. Alerts, the pod drawer and the banner link to it. Full Admin gains `delete` on claims, and the chart's ClusterRole reads VolumeAttachments.
 
 ### Changed
 
